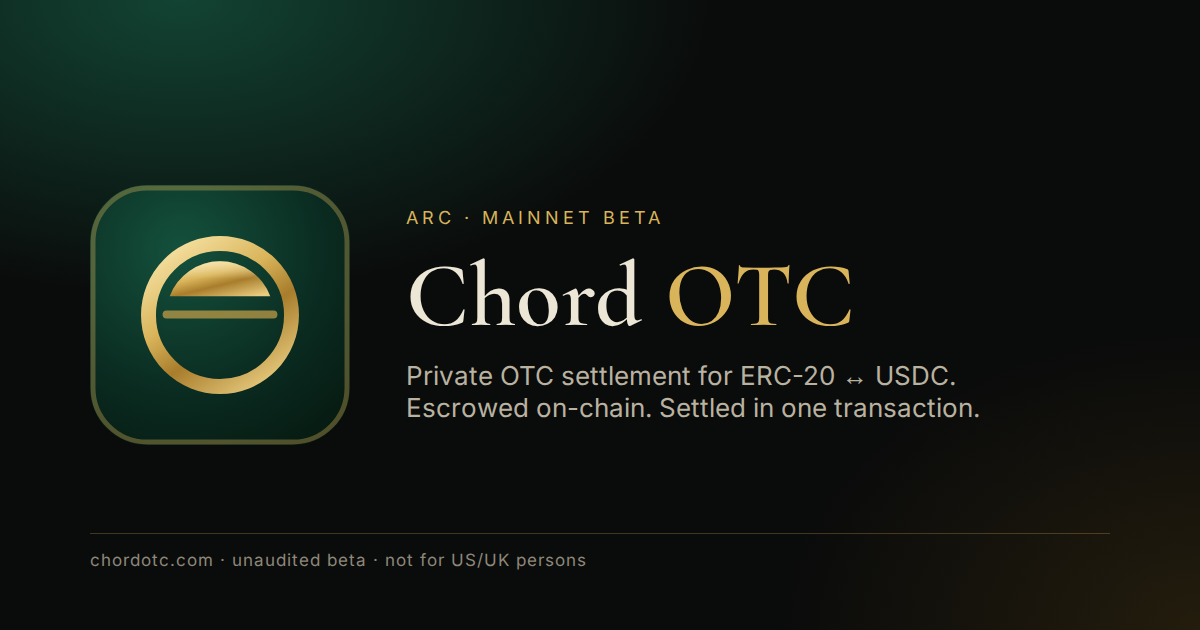
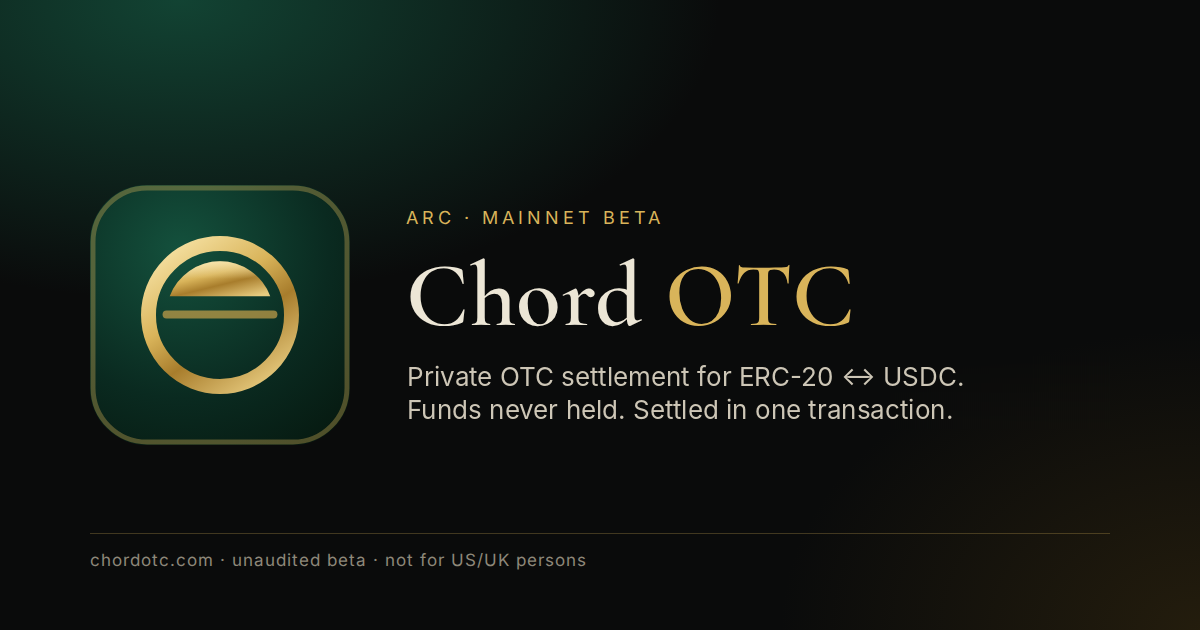
Link card: 'Funds never held' instead of 'Escrowed on-chain' (v2), with a cache-busting image URL
Claude-Session: https://claude.ai/code/session_01F9cXhyPHqQiEussN9AmFCx

Changed region(s): [[0.3392, 0.573, 0.8325, 0.6635]]

diff --git a/site/index.html b/site/index.html
@@ -10,7 +10,7 @@
 <link rel="apple-touch-icon" href="apple-touch-icon.png">
 <meta property="og:title" content="Chord OTC">
 <meta property="og:description" content="Private OTC settlement for ERC-20 ↔ USDC on Arc. Your side stays in your wallet until both sides settle in one transaction.">
-<meta property="og:image" content="https://chordotc.com/og-mainnet.png">
+<meta property="og:image" content="https://chordotc.com/og-mainnet.png?v=2">
 <meta property="og:image:width" content="1200">
 <meta property="og:image:height" content="630">
 <meta property="og:url" content="https://chordotc.com/">
@@ -19,7 +19,7 @@
 <meta name="twitter:site" content="@chordotc">
 <meta name="twitter:title" content="Chord OTC">
 <meta name="twitter:description" content="Private OTC settlement for ERC-20 ↔ USDC on Arc. Your side stays in your wallet until both sides settle in one transaction.">
-<meta name="twitter:image" content="https://chordotc.com/og-mainnet.png">
+<meta name="twitter:image" content="https://chordotc.com/og-mainnet.png?v=2">
 <link rel="preconnect" href="https://rpc.mainnet.arc.io" crossorigin>
 <link rel="preconnect" href="https://rpc.testnet.arc.io" crossorigin>
 <link rel="preconnect" href="https://cdn.jsdelivr.net" crossorigin>

diff --git a/site/try/index.html b/site/try/index.html
@@ -10,12 +10,12 @@
 <link rel="apple-touch-icon" href="../apple-touch-icon.png">
 <meta property="og:title" content="Try Chord OTC free on Arc Testnet">
 <meta property="og:description" content="An OTC trade in about five minutes, with your funds never leaving your wallet until it settles. Free test USDC, no real money.">
-<meta property="og:image" content="https://chordotc.com/og-mainnet.png">
+<meta property="og:image" content="https://chordotc.com/og-mainnet.png?v=2">
 <meta property="og:url" content="https://chordotc.com/try/">
 <link rel="canonical" href="https://chordotc.com/try/">
 <meta name="twitter:card" content="summary_large_image">
 <meta name="twitter:site" content="@chordotc">
-<meta name="twitter:image" content="https://chordotc.com/og-mainnet.png">
+<meta name="twitter:image" content="https://chordotc.com/og-mainnet.png?v=2">
 <link rel="preconnect" href="https://fonts.googleapis.com">
 <link rel="preconnect" href="https://fonts.gstatic.com" crossorigin>
 <link href="https://fonts.googleapis.com/css2?family=Cormorant+Garamond:wght@500;600&family=Inter:wght@400;500;600&display=swap" rel="stylesheet">
